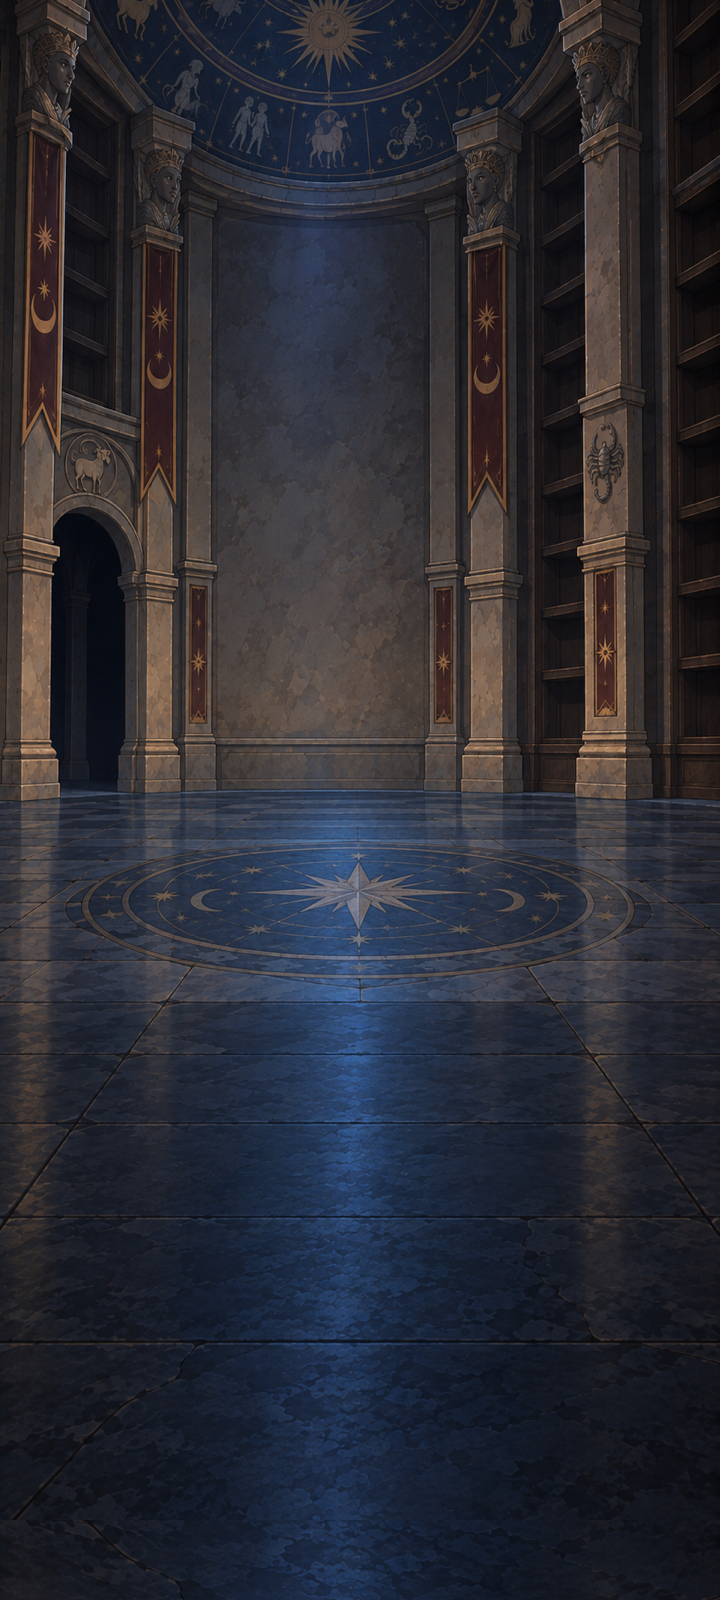
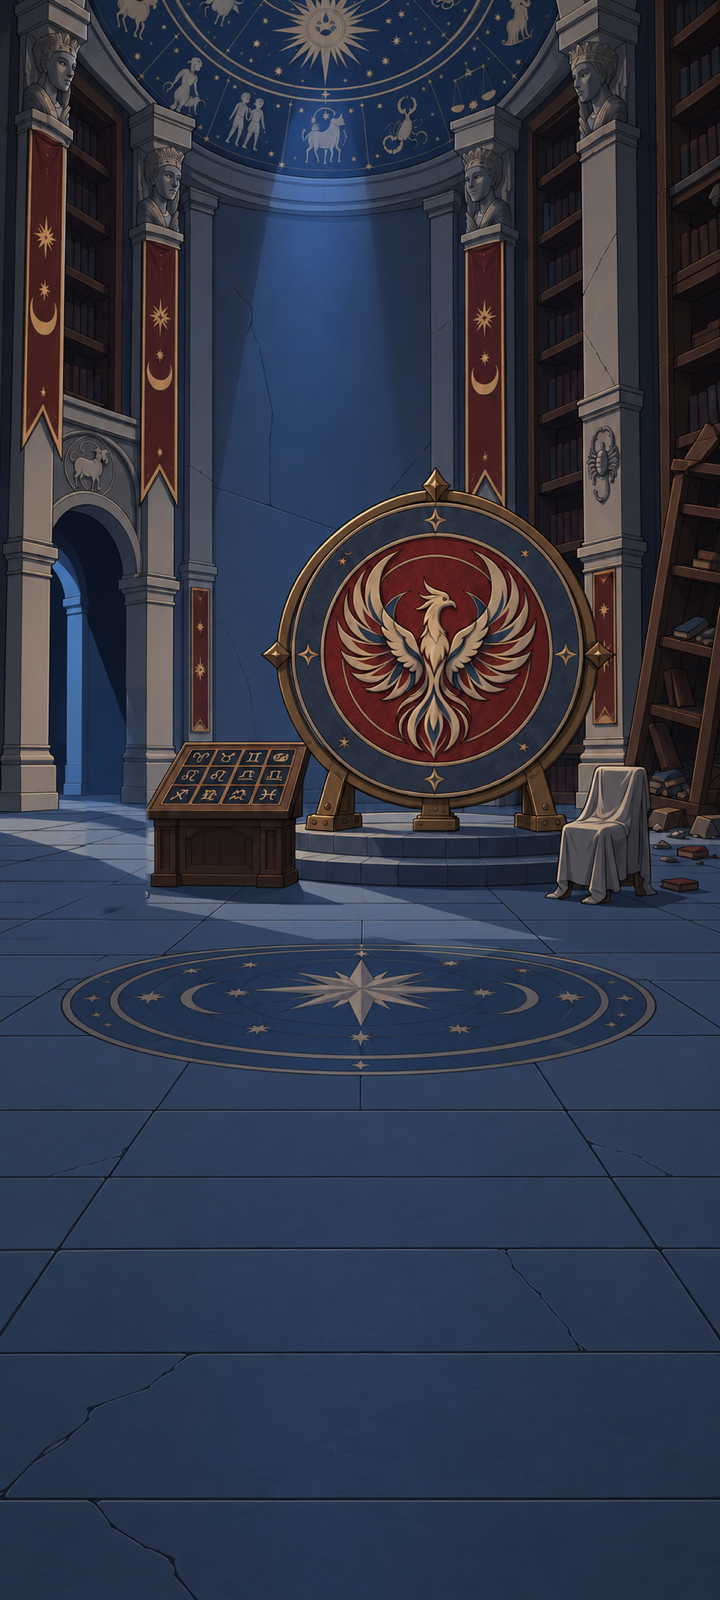
Build L: the composed Wing (the owner's mockup B) around the 100 px Keeper
The Wing room is the owner-approved mockup B2 with its Dial, table, chair,
and shelf painted in (the painted Keeper patched out). With room art the
separate shelf/table/Dial-face images aren't drawn in the room; tap areas,
walk points, and glows sit over the painted objects, the glows as halos so
they don't wash the objects out, and the grey floor band hides. The Keeper
sprites are the art lane's Sept 17 design at 44 x 100; the golden-hour
light at half strength. A Stage 6 Wing capture joins the suite.
Mechanical 458, fixture 177, suite 273.

diff --git a/Assets/WebGLTemplates/CelestialDial/index.html b/Assets/WebGLTemplates/CelestialDial/index.html
@@ -89,7 +89,7 @@
     for(let i=0;i<7;i++)if(byId('sound-'+i))box('sound-'+i,-129+(i%4)*86,686+Math.floor(i/4)*42,82,38);
     // Points of interest sit where their placeholder geometry is drawn (v0.4 tap-to-move).
     const chamberRoom=state&&state.room==='chamber';
-    const POI={desk:[-125,426,70,40],'wing-door':[0,310,72,128],caspar:[100,402,64,112],'sealed-left':[-118,310,62,128],'chamber-door':[118,310,62,128],'atrium-door':chamberRoom?[-150,347,48,124]:[-136,325,48,140],dial:[30,250,200,200],shelf:[120,140,50,36],grid:[-60,372,60,30],books:[0,300,330,90]};
+    const POI={desk:[-125,426,70,40],'wing-door':[0,310,72,128],caspar:[100,402,64,112],'sealed-left':[-118,310,62,128],'chamber-door':[118,310,62,128],'atrium-door':chamberRoom?[-150,347,48,124]:[-136,325,48,150],dial:[38,338,175,205],shelf:[158,320,48,240],grid:[-67,407,79,75],books:[0,300,330,90]};
     for(const id in POI)if(byId('poi-'+id))box('poi-'+id,POI[id][0],POI[id][1],POI[id][2],POI[id][3]);
     for(let i=0;i<4;i++)box('element-'+i,-78+(i%2)*156,300+Math.floor(i/2)*64,150,56);
     for(let i=0;i<3;i++)box('modality-'+i,0,300+i*64,300,56);

diff --git a/Assets/CelestialDial/SliceView.cs b/Assets/CelestialDial/SliceView.cs
@@ -392,25 +392,28 @@ namespace Ascendant.CelestialDial
             wingRoom = ScreenPanel("Wing room", "wing"); LightOverlay(wingRoom, "wing-light");
             Label(wingRoom, "THE ZODIAC WING", 0, 32, 340, 24, 18);
             Label(wingRoom, "The Elemental Pattern", 0, 62, 300, 20, 12).color = Muted;
-            var shelf = Block(wingRoom, "Collapsed bookshelf", 120, 140, 50, 36, "shelf");
-            for (int i = 0; i < 3; i++) { var book = Rect("Book", shelf, -14 + i * 14, 18, 8, 24); var bookImage = book.gameObject.AddComponent<Image>(); bookImage.color = new Color(.3f, .28f, .3f); Slots.Dress(bookImage, "shelf-book"); book.localRotation = Quaternion.Euler(0, 0, i * 9 - 9); }
-            var glow = Rect("Shelf glow", shelf, 0, 18, 60, 46); shelfGlow = glow.gameObject.AddComponent<Image>(); shelfGlow.sprite = SoftGlow(); shelfGlow.color = new Color(.95f, .8f, .5f, 0); shelfGlow.raycastTarget = false; glow.SetAsFirstSibling();
+            // Build L (Wing composition, owner-approved mockup B, Sept 24): the room art carries the Dial, the table, the chair, and the shelf,
+            // painted in place. Each object keeps an invisible tap area and its glow over its painted footprint; without room art the greybox shows.
+            bool wingBaked = HasArt(wingRoom);
+            var shelf = Block(wingRoom, "Collapsed bookshelf", 158, 320, 45, 240, wingBaked ? null : "shelf"); if (wingBaked) shelf.GetComponent<Image>().color = new Color(0, 0, 0, 0);
+            if (!wingBaked) for (int i = 0; i < 3; i++) { var book = Rect("Book", shelf, -14 + i * 14, 18, 8, 24); var bookImage = book.gameObject.AddComponent<Image>(); bookImage.color = new Color(.3f, .28f, .3f); Slots.Dress(bookImage, "shelf-book"); book.localRotation = Quaternion.Euler(0, 0, i * 9 - 9); }
+            var glow = Rect("Shelf glow", shelf, 0, 120, 80, 270); shelfGlow = glow.gameObject.AddComponent<Image>(); shelfGlow.sprite = wingBaked ? SoftRing() : SoftGlow(); shelfGlow.color = new Color(.95f, .8f, .5f, 0); shelfGlow.raycastTarget = false; glow.SetAsFirstSibling();
             Tappable(shelf, () => Walk("shelf")); // v0.3 revision: the book of symbols lives here once the wheel is lit
-            var dial = Rect("The Dial", wingRoom, 30, 250, 200, 200); var dialImage = dial.gameObject.AddComponent<Image>(); dialImage.color = new Color(0, 0, 0, 0);
-            var rings = Rect("Rings", dial, 0, 100, 200, 200); rings.gameObject.SetActive(!Slots.Dress(dialImage, "dial-face")); // the face seen from the room
+            var dial = Rect("The Dial", wingRoom, 38, 338, 175, 205); var dialImage = dial.gameObject.AddComponent<Image>(); dialImage.color = new Color(0, 0, 0, 0);
+            var rings = Rect("Rings", dial, 0, 102, 175, 175); rings.gameObject.SetActive(!wingBaked && !Slots.Dress(dialImage, "dial-face")); if (wingBaked) dialImage.color = new Color(0, 0, 0, 0); // the face seen from the room
             RingLines(rings, 88, new Color(Bone.r, Bone.g, Bone.b, .4f), null); RingLines(rings, 30, new Color(Bone.r, Bone.g, Bone.b, .25f), null);
-            var waitingGlow = Rect("Dial glow", wingRoom, 30, 250, 330, 330); dialGlow = waitingGlow.gameObject.AddComponent<Image>(); dialGlow.sprite = SoftGlow(); dialGlow.color = new Color(.95f, .8f, .5f, 0); dialGlow.raycastTarget = false; waitingGlow.SetSiblingIndex(dial.GetSiblingIndex()); // Build I (86bc1brxd): behind the Dial
-            var dialLabel = Label(wingRoom, "The Dial", 30, 352, 120, 16, 10); dialLabel.color = Muted;
+            var waitingGlow = Rect("Dial glow", wingRoom, 38, 330, 250, 250); dialGlow = waitingGlow.gameObject.AddComponent<Image>(); dialGlow.sprite = wingBaked ? SoftRing() : SoftGlow(); dialGlow.color = new Color(.95f, .8f, .5f, 0); dialGlow.raycastTarget = false; waitingGlow.SetSiblingIndex(dial.GetSiblingIndex()); // Build I (86bc1brxd): behind the Dial
+            var dialLabel = Label(wingRoom, "The Dial", 38, 452, 120, 16, 10); dialLabel.color = Muted;
             Tappable(dial, () => Walk("dial"));
             // Build B (07 Room Scope amendment): a second interactive object, the table with its board of twelve, dark until the modality unit is complete.
-            var table = Block(wingRoom, "The table", -60, 372, 60, 30, "table");
-            var board = Rect("Board", table, 0, 15, 60, 30); board.gameObject.SetActive(!HasArt(table));
+            var table = Block(wingRoom, "The table", -67, 407, 79, 75, wingBaked ? null : "table"); if (wingBaked) table.GetComponent<Image>().color = new Color(0, 0, 0, 0);
+            var board = Rect("Board", table, 0, 37, 60, 30); board.gameObject.SetActive(!wingBaked && !HasArt(table));
             for (int i = 0; i < 12; i++) { var square = Rect("Square", board, -20 + (i % 3) * 20, 5 + (i / 3) * 7, 16, 5); var squareImage = square.gameObject.AddComponent<Image>(); squareImage.color = new Color(.3f, .28f, .3f); squareImage.raycastTarget = false; }
-            var tableGlow = Rect("Table glow", table, 0, 15, 72, 44); gridGlow = tableGlow.gameObject.AddComponent<Image>(); gridGlow.sprite = SoftGlow(); gridGlow.color = new Color(.95f, .8f, .5f, 0); gridGlow.raycastTarget = false; tableGlow.SetAsFirstSibling();
+            var tableGlow = Rect("Table glow", table, 0, 37, 110, 100); gridGlow = tableGlow.gameObject.AddComponent<Image>(); gridGlow.sprite = wingBaked ? SoftRing() : SoftGlow(); gridGlow.color = new Color(.95f, .8f, .5f, 0); gridGlow.raycastTarget = false; tableGlow.SetAsFirstSibling();
             Tappable(table, () => Walk("grid"));
-            var door = Block(wingRoom, "Doorway back", -136, 325, 36, 140, "door-open"); Tappable(door, () => Walk("atrium-door")); HitArea(door, 48); // Build K: the painted doorway
-            var light = Rect("Doorway light", door, 0, 70, 26, 115); var lightImage = light.gameObject.AddComponent<Image>(); lightImage.color = new Color(.95f, .8f, .5f, HasArt(door) ? .05f : .25f); lightImage.raycastTarget = false;
-            var floor = Rect("Floor band", wingRoom, 0, BandY, 340, 30); var floorImage = floor.gameObject.AddComponent<Image>(); floorImage.color = new Color(.16f, .16f, .19f); floorImage.raycastTarget = false;
+            var door = Block(wingRoom, "Doorway back", -136, 325, 36, 150, "door-open"); Tappable(door, () => Walk("atrium-door")); HitArea(door, 48); // Build K: the painted doorway
+            var light = Rect("Doorway light", door, 0, 75, 26, 123); var lightImage = light.gameObject.AddComponent<Image>(); lightImage.color = new Color(.95f, .8f, .5f, HasArt(door) ? .05f : .25f); lightImage.raycastTarget = false;
+            var floor = Rect("Floor band", wingRoom, 0, BandY, 340, 30); var floorImage = floor.gameObject.AddComponent<Image>(); floorImage.color = new Color(.16f, .16f, .19f, wingBaked ? 0 : 1); floorImage.raycastTarget = false;
             wingRoomCaption = Label(wingRoom, "The Dial stands at the center of the room. The doorway behind you leads back to the Atrium.", 0, 466, 340, 36, 12); // owner (worksheet section 6) // two lines at 360 wide wingRoomCaption.color = Muted; // placeholder (owner writes)
             enterGrid = MakeButton(wingRoom, "The Table", 0, 512, 300, 52, () => Walk("grid")); enterGrid.gameObject.SetActive(false); // Build B: shown once the table has woken // owner (worksheet section 11)
             enterDial = MakeButton(wingRoom, "The Dial", 0, 624, 300, 52, () => Walk("dial"));
@@ -1179,6 +1182,19 @@ namespace Ascendant.CelestialDial
                 texture.SetPixel(x, y, new Color(1, 1, 1, Mathf.SmoothStep(1, 0, d)));
             }
             texture.Apply(); softGlow = Sprite.Create(texture, new Rect(0, 0, size, size), new Vector2(.5f, .5f)); return softGlow;
+        }
+        // Build L: over an object painted into the room a filled glow would wash it out, so the waiting glow is a halo: bright at the rim, clear inside.
+        static Sprite softRing;
+        static Sprite SoftRing()
+        {
+            if (softRing != null) return softRing;
+            const int size = 128; var texture = new Texture2D(size, size, TextureFormat.RGBA32, false) { wrapMode = TextureWrapMode.Clamp };
+            for (int y = 0; y < size; y++) for (int x = 0; x < size; x++)
+            {
+                float dx = (x + .5f) / size * 2 - 1, dy = (y + .5f) / size * 2 - 1, d = Mathf.Sqrt(dx * dx + dy * dy);
+                texture.SetPixel(x, y, new Color(1, 1, 1, Mathf.Clamp01(1 - Mathf.Abs(d - .78f) / .2f)));
+            }
+            texture.Apply(); softRing = Sprite.Create(texture, new Rect(0, 0, size, size), new Vector2(.5f, .5f)); return softRing;
         }
         // Build I (86bc1brxd): one rule for the Wing room, "an instrument with a unit waiting glows": the symbols' second half,
         // the modalities once Key 2 is in hand, and the last pattern once the table's Key is.

diff --git a/Assets/Editor/CelestialDial/GreyboxValidation.cs b/Assets/Editor/CelestialDial/GreyboxValidation.cs
@@ -412,7 +412,7 @@ namespace Ascendant.Build
             var grl=new DialLesson(()=>0);grl.RestoreProgress(1,Enumerable.Repeat(true,12).ToArray(),Enumerable.Repeat(true,12).ToArray(),true);grl.RestoreGlyphs(2,12,true);Check(grl.Key2Earned && grl.Keys==2 && grl.Phase==LessonPhase.Key2 && !grl.CanBeginGlyphs,"restored Key 2 does not reopen the glyph unit");
             var grl2=new DialLesson(()=>0);grl2.RestoreProgress(1,Enumerable.Repeat(true,12).ToArray(),Enumerable.Repeat(true,12).ToArray(),true);grl2.RestoreGlyphs(0,5,false);Check(grl2.CanBeginGlyphs && grl2.BeginGlyphs() && grl2.CurrentGlyph==5,"restored Part A progress resumes at the next mark");
             // ---- v0.4: tap-to-move (Q06 phase 2 lock) ----
-            Check(Rooms.Visible(Room.Atrium).Count(p=>p.Walkable)==4 && Rooms.Visible(Room.Atrium).Count(p=>!p.Walkable)==1 && Rooms.Visible(Room.Wing).Count()==4 && Rooms.Visible(Room.Wing).All(p=>p.Walkable) && Rooms.Find(Room.Wing,"grid").X==-60 && Rooms.Find(Room.Wing,"grid").Label=="the table","the Atrium offers the Wing doorway, the Chamber doorway, the desk, and Caspar plus one sealed door; the Wing offers the doorway back, the table, the Dial, and the shelf");
+            Check(Rooms.Visible(Room.Atrium).Count(p=>p.Walkable)==4 && Rooms.Visible(Room.Atrium).Count(p=>!p.Walkable)==1 && Rooms.Visible(Room.Wing).Count()==4 && Rooms.Visible(Room.Wing).All(p=>p.Walkable) && Rooms.Find(Room.Wing,"grid").X==-67 && Rooms.Find(Room.Wing,"grid").Label=="the table","the Atrium offers the Wing doorway, the Chamber doorway, the desk, and Caspar plus one sealed door; the Wing offers the doorway back, the table, the Dial, and the shelf");
             var walker=new Walker();var walkLog=new List<string>();walker.Logged+=walkLog.Add;
             walker.Enter(Room.Atrium,"entry");Check(walker.Room==Room.Atrium && walker.At=="entry" && !walker.Walking && walkLog.Last()=="room_entered:atrium","entering a room places the marker at a point of interest");
             Check(!walker.GoTo("sealed-left") && !walker.GoTo("dial") && !walker.Walking,"sealed doors and points in other rooms are not walkable");

diff --git a/Assets/Editor/CelestialDial/SlicePlayValidation.cs b/Assets/Editor/CelestialDial/SlicePlayValidation.cs
@@ -261,7 +261,7 @@ namespace Ascendant.Build
                 Check(new[]{"atrium","atrium-light","caspar","lamp","door-sealed","door-open","desk","shelves","shelf-book","keeper-idle"}.All(Slots.IsDressed) && View.LightAlpha==SliceView.LightAlphaFor(View.Flow.AtriumStage) && View.LightAlpha>0,"the Atrium takes its files: background, Caspar, lamps, doors, desk, shelves and their books, the Keeper");Capture("slice-360-art-hub.png");Debug.Log("[SlicePlayValidation] ambient loop playing: "+Sound.AmbientPlaying);});
             Steps.Enqueue(()=>{playedBefore=Sound.Played;Act("walk:wing-door");});
             Steps.Enqueue(()=>{Check(View.Flow.Screen==SliceScreen.WingRoom && !View.Busy && Sound.LastCue=="door" && Sound.Played>playedBefore,"the doorway plays the door cue from the test set (cues played: "+Sound.Played+")");
-                Check(new[]{"wing","wing-light","shelf","table","dial-face"}.All(Slots.IsDressed) && (Slots.IsDressed("keeper-idle") || Slots.IsDressed("keeper-walk")),"the Wing room takes its files: background, shelf, table, the Dial's face, the Keeper");Capture("slice-360-art-wing-room.png");Act("walk:dial");});
+                Check(new[]{"wing","wing-light"}.All(Slots.IsDressed) && !Slots.IsDressed("table") && (Slots.IsDressed("keeper-idle") || Slots.IsDressed("keeper-walk")),"the Wing room takes its files: the composed room (its Dial, table, chair, and shelf painted in, so no separate table file is drawn), its light, the Keeper (Build L; the shelf and the Dial's face are checked on the Dial screen next)");Capture("slice-360-art-wing-room.png");Act("walk:dial");});
             Steps.Enqueue(()=>{Check(View.Flow.Screen==SliceScreen.Wing && new[]{"dial-face","seat","bracket","floor-markings","shelf","chair","candle"}.All(Slots.IsDressed),"the Dial takes its files: face, seats, bracket, floor markings, and the props beside it");Capture("slice-360-art-dial.png");});
             Steps.Enqueue(()=>Act("leave-wing")); // captures land at the end of the frame: the next action waits its own step
             Steps.Enqueue(()=>Act("walk:atrium-door"));

diff --git a/Assets/CelestialDial/Walker.cs b/Assets/CelestialDial/Walker.cs
@@ -34,10 +34,10 @@ namespace Ascendant.CelestialDial
         };
         public static readonly PointOfInterest[] Wing =
         {
-            new PointOfInterest("atrium-door", "the doorway back to the Atrium", -130),
-            new PointOfInterest("grid", "the table", -60),        // Build B: the 4 × 3 table wakes once the modality unit is complete (07 Room Scope amendment)
-            new PointOfInterest("dial", "the Dial", 30),
-            new PointOfInterest("shelf", "the bookshelf", 120),   // v0.3 revision: Part A lives here once the wheel is lit
+            new PointOfInterest("atrium-door", "the doorway back to the Atrium", -136),
+            new PointOfInterest("grid", "the table", -67),        // Build B: the 4 × 3 table wakes once the modality unit is complete (07 Room Scope amendment)
+            new PointOfInterest("dial", "the Dial", 38),
+            new PointOfInterest("shelf", "the bookshelf", 150),   // v0.3 revision: Part A lives here once the wheel is lit
         };
         public static PointOfInterest[] Of(Room room) => room == Room.Atrium ? Atrium : room == Room.Wing ? Wing : room == Room.Chamber ? Chamber : Array.Empty<PointOfInterest>();
         public static PointOfInterest Find(Room room, string id) => Of(room).FirstOrDefault(p => p.Id == id);

diff --git a/Documentation/README.md b/Documentation/README.md
@@ -85,6 +85,7 @@ The **v0.4 "tap-to-move"** build (branch `codex/v04-tap-to-move`, [task 86bbznax
 - **Build G, Caspar's lines (Sept 17).** The owner's worksheet rewrites (sections 1–13) replace every placeholder they name, verbatim with the game's bracket substitutions: Caspar in his own voice ("acolyte"), the readouts, the buttons, the captions, and the end cards. Amendments the rewrites carry, recorded on the Decisions Log: the polarity pair is **Yin / Yang** (`Zodiac.Polarities`; Fire and Air are Yang), the Ask button reads **Ask Caspar**, the Back buttons **Return to the Atrium**, the Wing subtitles **The Modalities** and **Polarity and Opposites**, and "modality", "polarity", and "placed" are the player-facing words. Rows the owner left blank or marked X keep their text (the Chamber's first end card, the Atrium's Stage 2 and 3 captions, the screen-reader room hint, the Atrium door label); section 14 (Build F's lines) stays placeholder until written. Locked lines are untouched. Every check that quoted a rewritten line quotes the new one.
 - **Build H, the light overlays (Sept 19).** The Sept 17 lighting decision (Option C) wired: three slots, `atrium-light`, `wing-light`, `chamber-light`, each a transparent golden-hour overlay drawn over its room's dormant background and under everything else, faded by the Atrium stage (nothing at Stage 1, full at Stages 5–6; the steps between are a tuning variable). Without a file nothing changes; the test set carries three amber stand-ins. The art itself is the art lane's to make.
 - **Build I, playtest fixes (Sept 23).** From the owner's combined playtest of Builds A–H: the wheel poses its own challenge on its face (the symbol challenge holds the target's name in the centre, fixed while the wheel turns), Caspar's panel carries only teaching and answers and fits its text, the Count button is gone, every Key (2–4) gets the Key 1 ceremony where it is earned, and the Dial glows in the Wing room while a unit waits on it.
+- **Build L, the 100 px Keeper and the composed Wing (Sept 24).** The Keeper at the Wing mockup's scale (Caspar a head taller); the Wing room is the owner's approved mockup B with its objects painted in, tap areas, glows (halos), and walk points over them; the golden-hour light at half strength. A stopgap until the Wing room kit.
 - **Test variables.** Walk speed (test toggle: normal, fast, slow), floor band, fade length; sound on or off. The event log carries walk and room events with response times so the Chamber-to-Dial time can be compared with v0.2.
 
 Validation (Unity 6000.3.24f1, local): mechanical validation 182/182 (adds the room tables, the walker's legs, arrival, jump, speed toggle, and the flow through the Wing room); slice Play Mode fixture 49/49 with captures of the Atrium with the Keeper, the Wing room, and the rest; Dial-only fixture 25/25; headless WebGL build 0 errors / 0 warnings; browser suite 91/91 against the served build in both viewports plus the recovery path, including a sealed door, walking to Caspar, the doorway fade, the Dial from the room, and the walk back. iPhone VoiceOver and Android TalkBack remain untested (skipped by approval). The owner tests after this build.

diff --git a/Documentation/CelestialDial/VALIDATION.md b/Documentation/CelestialDial/VALIDATION.md
@@ -2,6 +2,16 @@
 
 This is an interaction test, not production art or a gameplay-validation result. The governing records are linked in [the source index](../README.md).
 
+## Build L: the 100 px Keeper and the composed Wing
+
+Owner decisions, Sept 24 (Decisions Log, week of Sept 21–27): the Keeper stands 100 px tall (the Wing mockup's scale), and the Wing is the owner's approved mockup B painted as one scene. A stopgap until the Wing room kit (ClickUp 86bc74f9p).
+
+- **Keeper:** `SliceView.KeeperScale = 100/44` scales the figure whole; `PlaceAvatar` keeps the feet at band + 6 in every room. `keeper-idle`/`keeper-walk` become 44 × 100 (the owner's Sept 17 design, drawn by the art lane; the idle pose mirrored to face right like the walk). Caspar becomes 64 × 112, a head taller than the Keeper (working choice), feet where they were.
+- **Wing:** `wing.png` is mockup B2 with the painted Keeper removed (patched from the art lane's empty room). `BuildWingRoom` reads `HasArt(wingRoom)`: with room art, the shelf, table, and Dial face aren't drawn in the room; their tap areas, walk points (`Walker`: doorway −136, table −67, Dial 38, shelf 150), and glows sit over the painted objects, and the grey floor band hides. Without room art the greybox shows as before. Over painted objects the waiting glows are halos (`SoftRing`), not filled discs. `wing-light` is the art lane's golden-hour layer at half alpha (full strength fogged the room in the game's linear blending).
+- **Suite:** a new capture of the Wing at Stage 6 (`*-wing-room-stage6.png`). **Fixture:** the Wing check expects the composed room, its light, and the Keeper, and no separate table file.
+
+Validation: mechanical 458/458, slice fixture 177/177, WebGL clean (20.3 MB), browser suite 273/273. Capture: [`Evidence/wing-composition-2026-09-24/390-wing-stages.png`](Evidence/wing-composition-2026-09-24/390-wing-stages.png).
+
 ## Build I: playtest fixes, every Key's ceremony, the Dial's waiting glow
 
 [ClickUp task: Build I — Playtest fixes](https://app.clickup.com/t/86bc6kx5v). The owner's combined playtest of Sept 23 (Builds A–H) and two rulings the same day: the symbol challenge's fixed centre shows the target's name; the wheel poses the challenge and Caspar teaches (moving his teaching out of the wheel waits for the journal build).

diff --git a/Documentation/CelestialDial/ART-SLOTS.md b/Documentation/CelestialDial/ART-SLOTS.md
@@ -23,7 +23,7 @@ Sizes are the placeholder's rect on the 360 × 800 reference layout; the cap is 
 | Slot | Size | Cap | Where it is drawn |
 | --- | --- | --- | --- |
 | `atrium` | 360 × 800 | 2048 | the Grand Atrium, behind the opening, the return, and the room |
-| `wing` | 360 × 800 | 2048 | the Zodiac Wing room, behind its props |
+| `wing` | 360 × 800 | 2048 | the Zodiac Wing room **with its objects painted in** (Build L, the owner's mockup B, Sept 24): the Dial on its dais, the table with its board, the covered chair, the shelf and ladder. With this file the `shelf`, `table`, and `dial-face` slots are not drawn in the room; their tap areas and glows sit over the painted objects. A new `wing` must keep the objects where they are or the layout in `SliceView.BuildWingRoom` moves with it |
 | `chamber` | 360 × 800 | 2048 | the Crystal Book Chamber, first visit and room |
 | `caspar` | 64 × 112 | 256 | Caspar standing in the Atrium |
 | `keeper-idle` | 44 × 100 | 256 | the Keeper standing; flipped to face the way it last walked |
